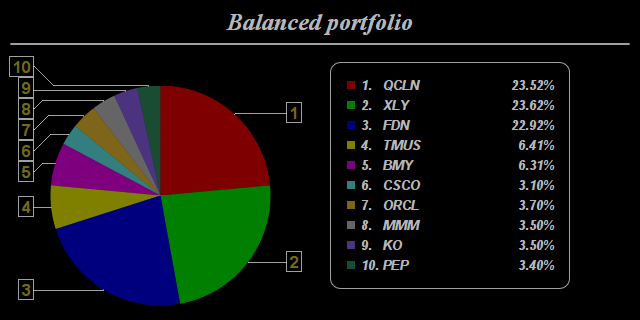
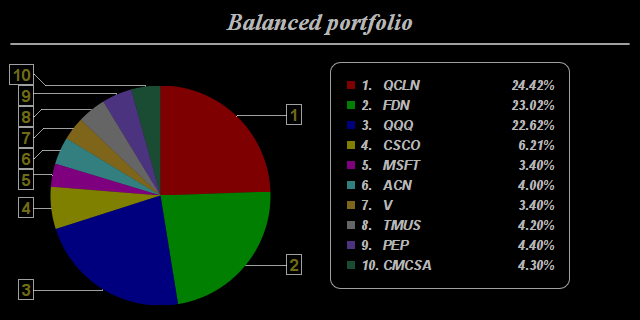
Вселенная по-новому

diff --git a/quotes/eodhistoricaldata.py b/quotes/eodhistoricaldata.py
@@ -10,7 +10,9 @@ def get_all_etf_holdings():
     debug("ETF_FOR_SCRAPE:" + str(ETF_FOR_SCRAPE))
     ticker_data = {}
     request_count = 0
-    for etf in ETF_FOR_SCRAPE:
+    t_len = len(ETF_FOR_SCRAPE)
+    print_progress_bar(0, t_len, prefix='Progress:', suffix='Complete', length=50)
+    for numb, etf in enumerate(ETF_FOR_SCRAPE):
         with requests.Session() as session:
             url = f'https://eodhistoricaldata.com/api/fundamentals/{etf}.US'
             params = {'api_token': EOD_API_KEY, 'filter': 'ETF_Data::Holdings'}
@@ -25,9 +27,7 @@ def get_all_etf_holdings():
             request_count += 1
             if request_result.status_code == requests.codes.ok:
                 parsed_json = json.loads(request_result.text)
-                t_len = len(parsed_json)
-                print_progress_bar(0, t_len, prefix='Progress:', suffix='Complete', length=50)
-                for count, company in enumerate(parsed_json):
+                for count, company in enumerate(parsed_json, start=1):
                     ticker = parsed_json[company].get('Code', None)
                     sector = parsed_json[company].get('Sector', None)
                     if ticker is not None:
@@ -37,7 +37,7 @@ def get_all_etf_holdings():
                             if (sector not in EXCLUDE_SECTORS and sector is not None) or ticker in NOT_EXCLUDE_TICKERS:
                                 ticker_data[ticker] = (sector, mkt_cap)
                     else:
-                        debug(f'Cant get Code for company:ETF:{etf}:{company}')
+                        # debug(f'Cant get Code for company:ETF:{etf}:{company}')
                         ticker = lookup_ticker_by_name(company_name=company, sess=session)
                         request_count += 1
                         if ticker is not None and ticker not in ticker_data:
@@ -45,8 +45,11 @@ def get_all_etf_holdings():
                             request_count += 1
                             mkt_cap = get_mkt_cap(ticker, session)
                             request_count += 1
-                            parsed_json[ticker] = (sector, mkt_cap)
-                    print_progress_bar(count, t_len, prefix='Progress:', suffix=f'Complete:{etf}:{ticker}:[{count}:{t_len}]    ', length=50)
+                            if (sector not in EXCLUDE_SECTORS and sector is not None) or ticker in NOT_EXCLUDE_TICKERS:
+                                ticker_data[ticker] = (sector, mkt_cap)
+                    if count == ETF_FOR_SCRAPE[etf]:
+                        break
+        print_progress_bar(numb, t_len, prefix='Progress:', suffix=f'Complete:{etf}:{len(ticker_data)}    ', length=50)
     return ticker_data
 
 
@@ -181,7 +184,7 @@ def get_historical_prices(ticker, from_date, end_date, is_update=False):
         request_result = session.get(url, params=params)
     except Exception as e:
         # print(e, 'Waiting 10 sec')
-        sleep(10)
+        sleep(15)
         request_result = session.get(url, params=params)
     if request_result.status_code == requests.codes.ok:
         parsed_json = json.loads(request_result.text)

diff --git a/invest_services.py b/invest_services.py
@@ -16,10 +16,12 @@ from charter.charter import *
 # ============================== Main  =============================
 def main():
 
+    # Это забирание вселенной по-старому
     # get_and_save_holdings(driver=chrome_init())
     # update_universe_prices()
-    # eod_get_and_save_holdings()
-    # exit()
+
+    # Это уже формирование вселенной по-новому, через апи
+    eod_get_and_save_holdings()
     eod_update_universe_prices()
 
     parking_weights = parking_portfolio()
